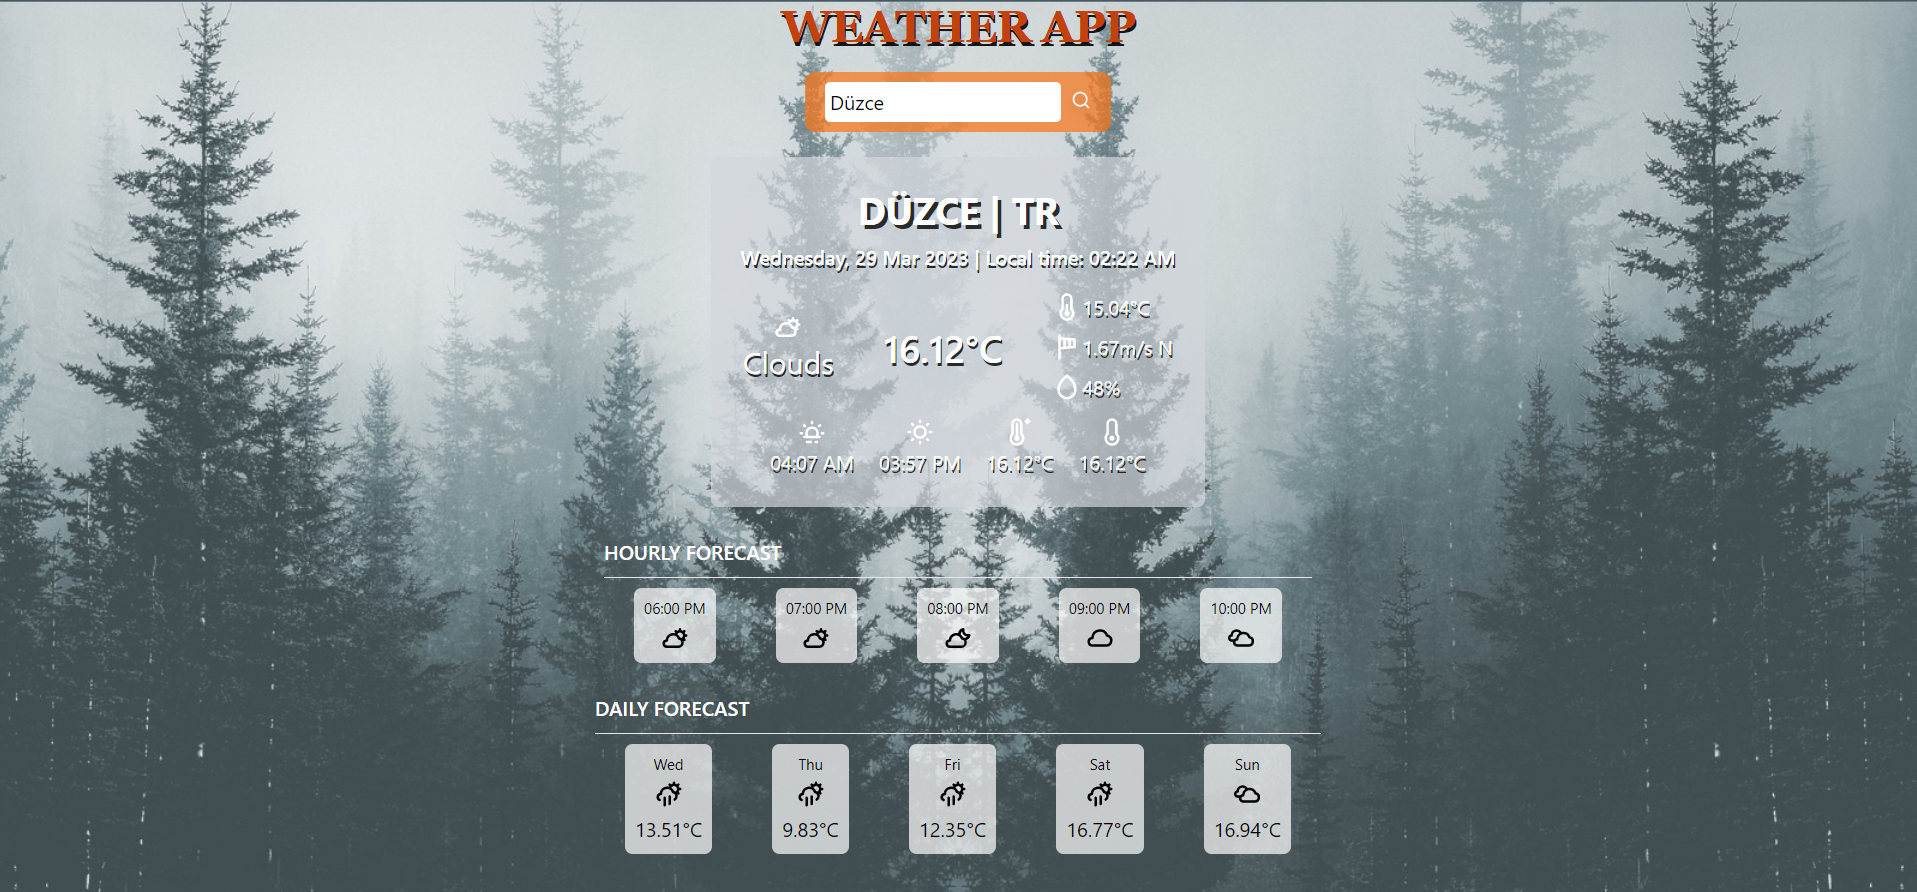
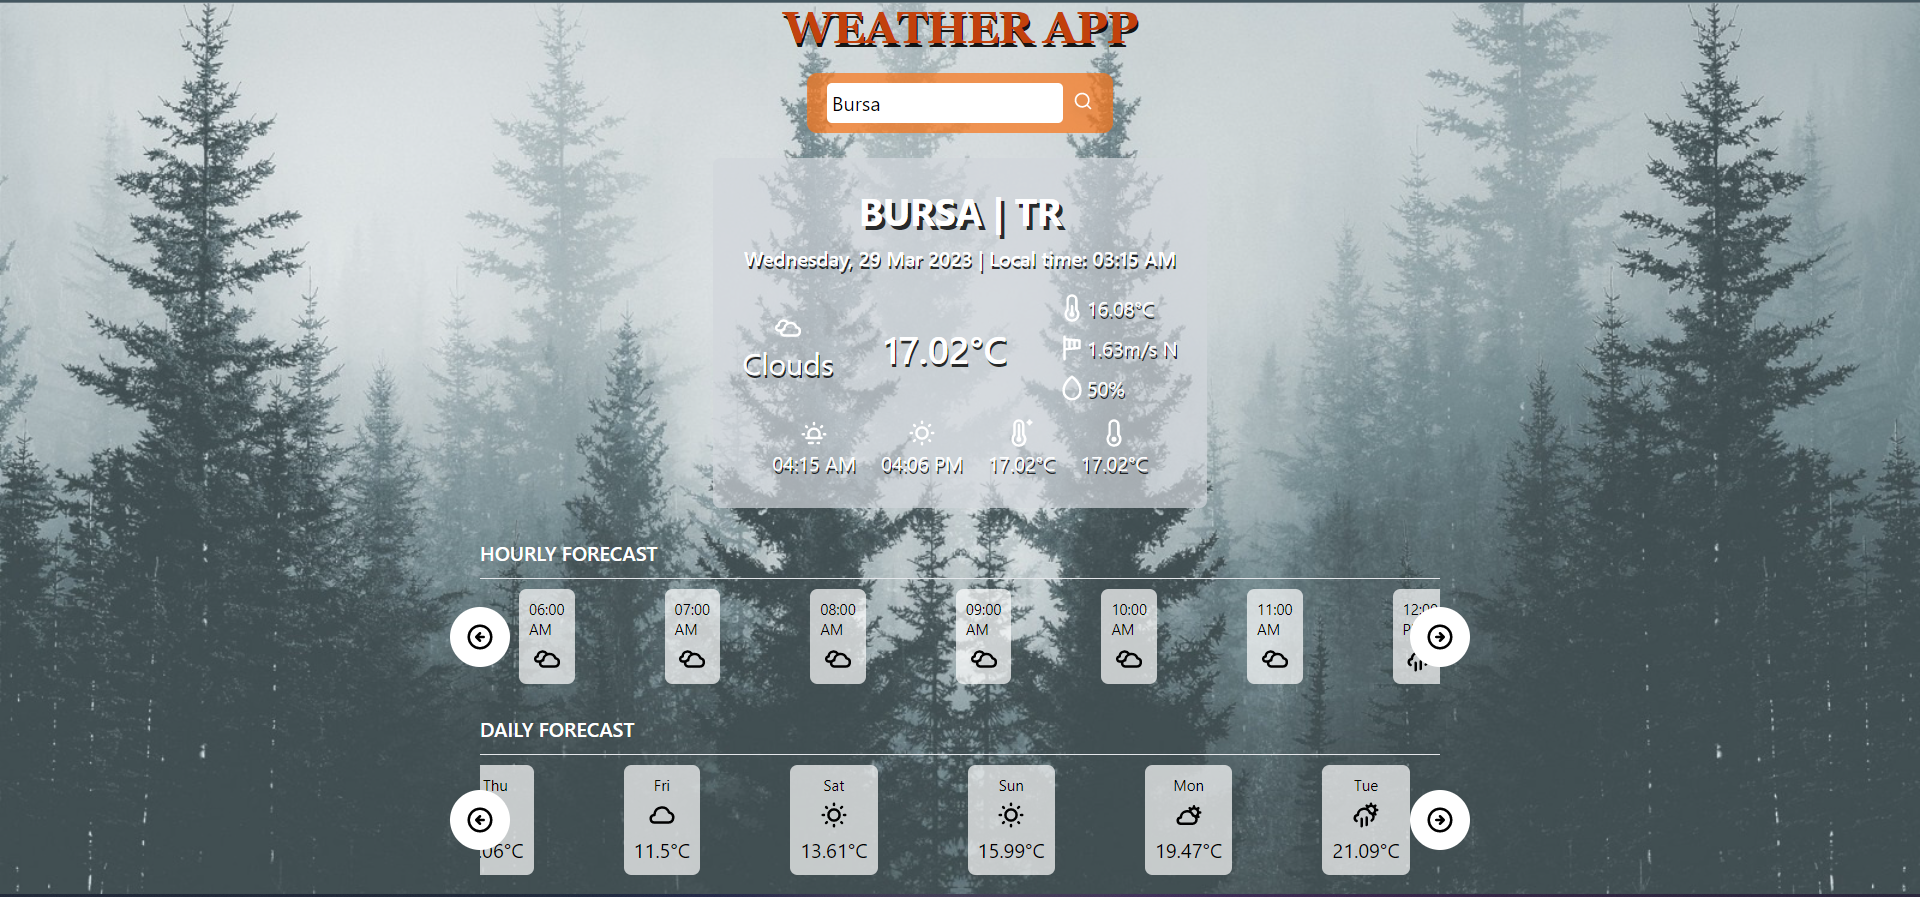
updated

diff --git a/src/components/Forecast/Forecast.js b/src/components/Forecast/Forecast.js
@@ -1,18 +1,70 @@
-import React from 'react'
+import React, { useEffect, useRef, useState } from 'react'
 import Card from './Card'
+import ScrollContainer from 'react-indiana-drag-scroll'
+import { UilArrowCircleLeft,UilArrowCircleRight  } from '@iconscout/react-unicons'
+
 
 const Forecast = ({title, forecast}) => {
+  const favRef = useRef();
+  const [prev, setPrev] = useState(false);
+  const [next, setNext] = useState(false);
+
+  useEffect(() => {
+    if (favRef.current) {
+
+      const scrollHandle = () => {
+        const isEnd = favRef.current.scrollLeft + favRef.current.offsetWidth + 0.20001220703125 === favRef.current.scrollWidth
+        // 688+ 1136 === 1824
+
+        const isFirst = favRef.current.scrollLeft === 0
+
+        setPrev(!isFirst)
+        setNext(!isEnd)
+      }
+      scrollHandle()
+      favRef.current.addEventListener('scroll', scrollHandle)
+
+      return () => {
+        favRef?.current?.removeEventListener('scroll', scrollHandle)
+      }
+
+    }
+  }, [favRef])
+
+  const scrollForward = () => {
+    favRef.current.scrollLeft += favRef.current.offsetWidth - 300
+  }
+
+  const scrollBackward = () => {
+    favRef.current.scrollLeft -= favRef.current.offsetWidth - 300
+  }
   return (
-    <div>
+    <div className='w-6/12'>
         <div className='flex items-center justify-start mt-6'>
             <p className='font-medium uppercase'>{title}</p>
         </div>
         <hr className='my-2'/>
-
-        <div className='flex item-center justify-between'>
-            {
-                forecast.map((item,index) => <Card data={item} key={index}/>)
-            }
+        <div>
+        <div className='relative'>
+          {prev &&
+            (
+              <button onClick={scrollBackward} className="w-12 h-12 bg-white text-black flex items-center justify-center rounded-full absolute -left-6 z-10 top-1/2 -translate-y-1/2 hover:scale-[1.06]">
+                <UilArrowCircleLeft/>
+              </button>
+            )
+          }
+          {next &&
+            (
+              <button onClick={scrollForward} className="w-12 h-12 bg-white text-black flex items-center justify-center rounded-full absolute -right-6 z-10 top-1/2 -translate-y-1/2 hover:scale-[1.06]">
+                <UilArrowCircleRight/>
+              </button>
+            )}
+          <ScrollContainer
+            innerRef={favRef}
+            className="flex overflow-x-auto gap-x-6 scroll-smooth">
+            {forecast.map((item,index) => <Card data={item} key={index}/>)}
+          </ScrollContainer>
+        </div>
         </div>
     </div>
   )

diff --git a/src/services/weatherService.js b/src/services/weatherService.js
@@ -35,7 +35,7 @@ const formatCurrentWeather = (data) => {
 const formatForecastWeather = (data) => {
     let {timezone,daily,hourly} = data;
 
-    daily = daily.slice(1,6).map(day => {
+    daily = daily.map(day => {
         return{
             title:formatToLocalTime(day.dt, timezone, 'ccc'),
             temp:day.temp.day,
@@ -43,7 +43,7 @@ const formatForecastWeather = (data) => {
         }
     });
 
-    hourly = hourly.slice(1,6).map(hour => {
+    hourly = hourly.map(hour => {
         return{
             title:formatToLocalTime(hour.dt, timezone, 'hh:mm a'),
             temp:hour.temp.day,
